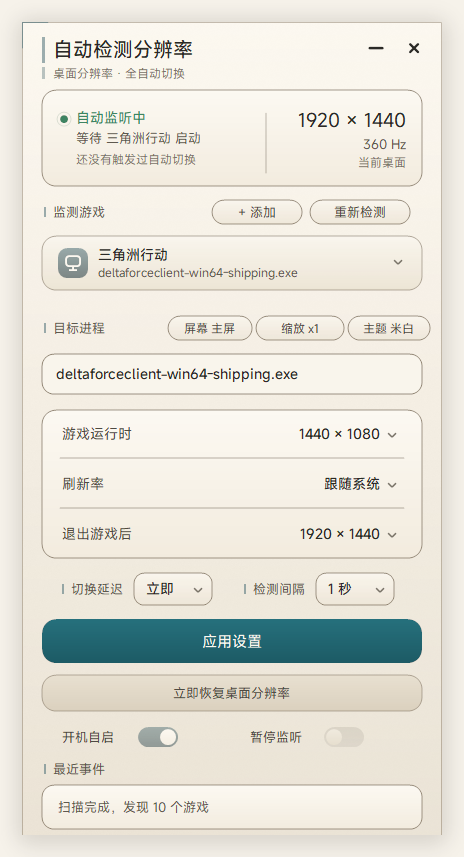
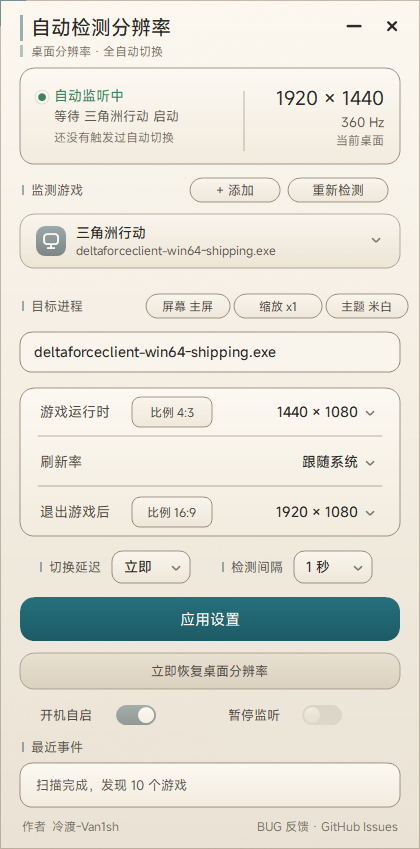
release: add v1.3.0 notes and updated UI screenshot

diff --git a/docs/RELEASE_NOTES_v1.3.0.md b/docs/RELEASE_NOTES_v1.3.0.md
@@ -1,0 +1,34 @@
+Windows 10/11 游戏分辨率自动切换工具：面向原生 4K/2K 及以上屏幕，支持全屏无边框下用 1K 拉满帧率，也照顾习惯 4:3 的 FPS 玩家；退出游戏默认恢复屏幕最高分辨率。
+
+## 下载
+
+- [安装版](https://github.com/Van1sh-LDu/DeltaResAuto/releases/download/v1.3.0/DeltaResAuto_v1.3.0_setup.exe) — 默认装到 `%LOCALAPPDATA%\Programs\DeltaResAuto`，不需要管理员权限
+- [便携版](https://github.com/Van1sh-LDu/DeltaResAuto/releases/download/v1.3.0/DeltaResAuto_v1.3.0_portable.exe) — 免安装
+- [SHA256SUMS.txt](https://github.com/Van1sh-LDu/DeltaResAuto/releases/download/v1.3.0/SHA256SUMS.txt) — 发布包校验值
+
+## 校验
+
+```text
+8d56f2f7513b2918beec064be18b4db66ff344ca28f0e7c88f6e25fc7b457a6c *DeltaResAuto_v1.3.0_setup.exe
+089408bb01c011d8c5e8902d9701989e3ad10b6b31f8b68be89ca4a3f4182e6c *DeltaResAuto_v1.3.0_portable.exe
+```
+
+## 本次更新
+
+- 新增“画面比例”选项：游戏运行时、退出游戏后分别选择 16:9 / 16:10 / 4:3 等比例
+- 选择比例后自动匹配当前显示器支持的分辨率；游戏模式优先 1K 附近，退出模式优先该比例下最高分辨率
+- 比例列表来自驱动真实枚举，不会出现系统不支持的模式
+- 修复“立即恢复桌面分辨率”在没有切换记录时点击无响应：现在会直接应用你设置的退出分辨率
+- 保留刷新率、默认最高分辨率恢复、三套主题、配置备份和安装校验
+
+## 系统要求
+
+- Windows 10/11 x64
+- .NET Framework 4.x（系统自带，不需要额外安装）
+- 普通用户权限即可安装和运行
+
+## 说明
+
+安装包未做代码签名，首次运行可能触发 Windows SmartScreen；可以先核对 `SHA256SUMS.txt`，或用源码自行构建。
+
+本项目为非官方工具，与游戏开发商、发行商无关联；不修改游戏文件，只调用 Windows 显示设置接口。
